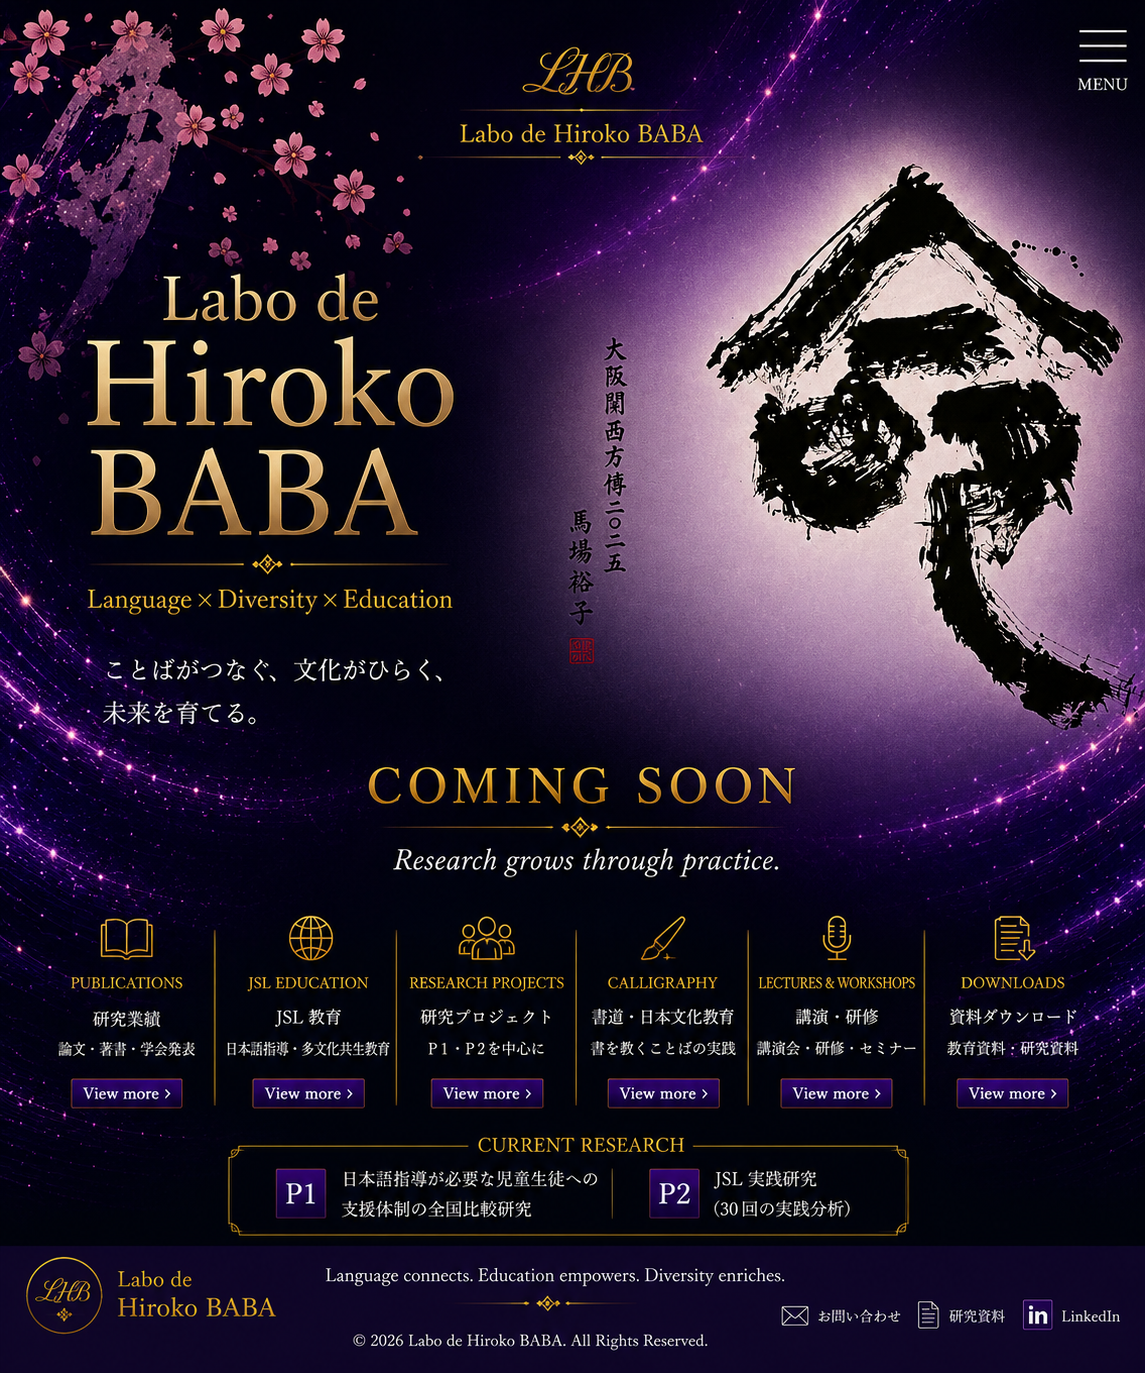
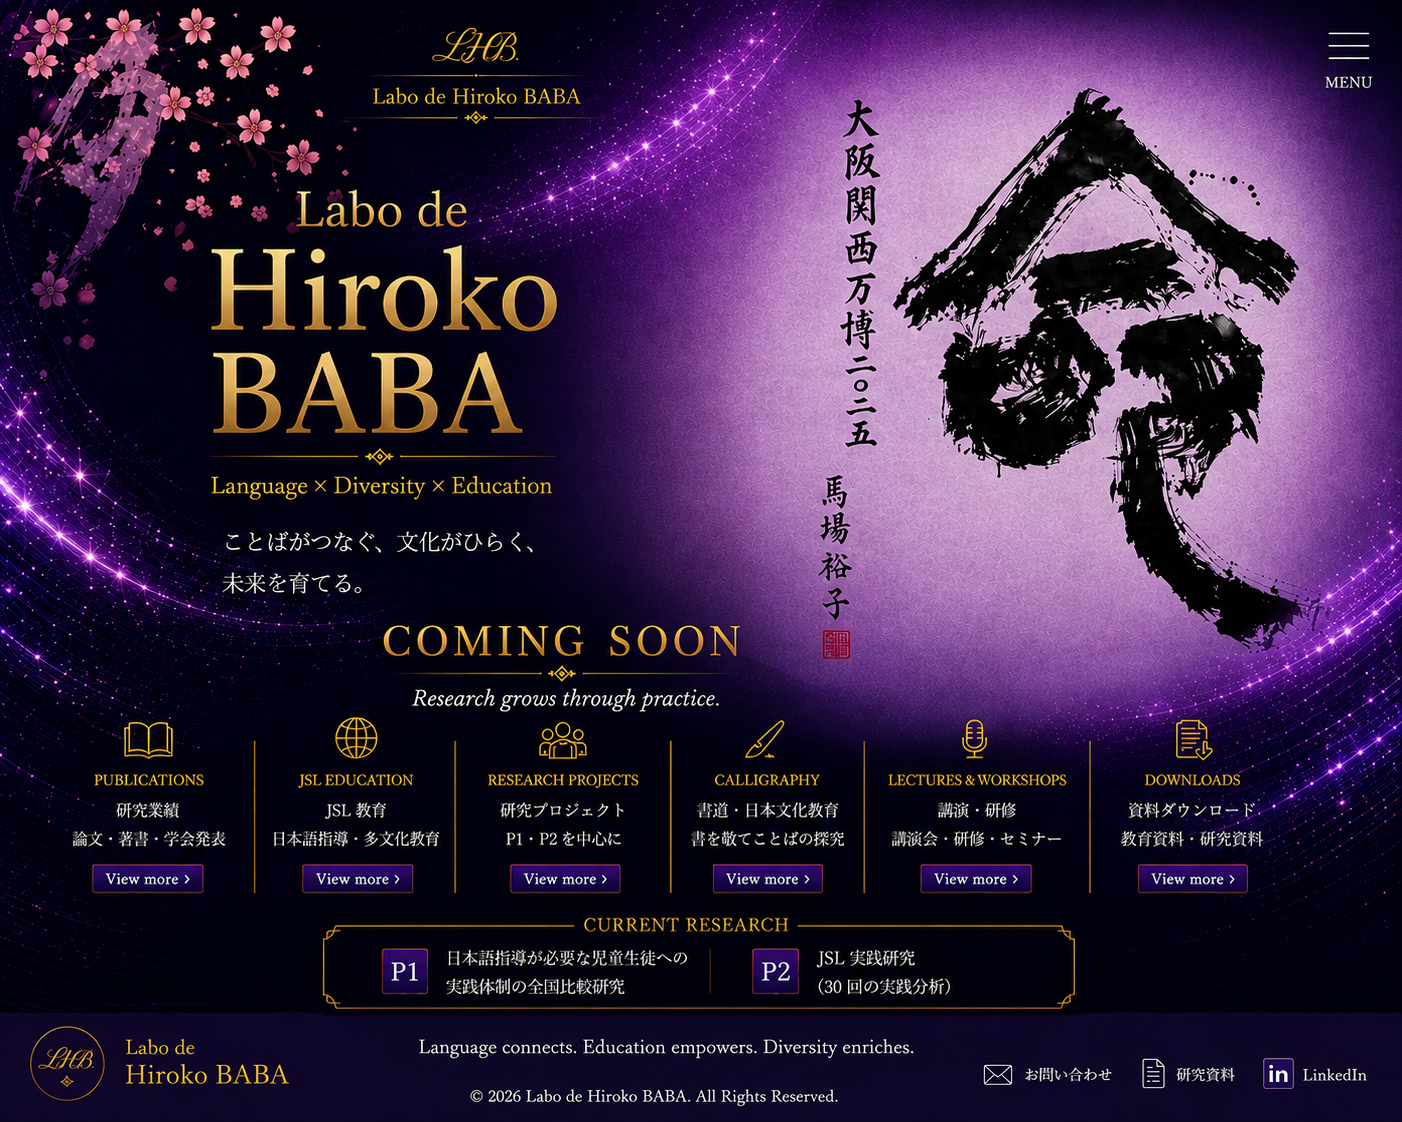
Add files via upload

diff --git a/profile.html b/profile.html
@@ -36,11 +36,11 @@ footer{margin-top:44px;padding-top:24px;border-top:1px solid rgba(255,255,255,.1
 
 <p class="kicker">PROFILE</p>
 <h1>Hiroko BABA</h1>
-<div class="degree">馬場 裕子　博士（学術） / Ph.D.</div>
+<div class="degree">馬場 裕子　博士（学術） / Ph.D.<br><strong>教育人類学者 / Educational Anthropologist</strong></div>
 
 <section class="card">
 <h2>Profile</h2>
-<p>書道教育、小学校教育、海外日本人学校での実践を経て、「子どもの日本語教育」を専門とする研究者。書道教諭、神戸市小学校教諭、文部科学省派遣によるコスタリカ・サンホセ日本人学校教諭を経験し、帰国後は日本語指導が必要な子どもの教育を研究テーマとして、教育実践と研究を続けています。</p>
+<p>教育人類学の視点から、多文化共生、日本語教育、学校教育を研究する教育人類学者。書道教育、小学校教育、海外日本人学校での実践を経て、「子どもの日本語教育」を専門とする研究者。書道教諭、神戸市小学校教諭、文部科学省派遣によるコスタリカ・サンホセ日本人学校教諭を経験し、帰国後は日本語指導が必要な子どもの教育を研究テーマとして、教育実践と研究を続けています。</p>
 <p>神戸市外国語大学、滋賀大学、大阪大学、大阪公立大学で教育・研究に携わるとともに、2016年から大阪市教育委員会多文化共生教育顧問として、多文化共生教育拠点の構築にも参画しました。現在は日本語コーディネーターとして学校現場を支援しながら、研究・教育・地域連携を進めています。</p>
 </section>
 

diff --git a/index.html b/index.html
@@ -1,26 +1,7 @@
 <!doctype html>
-<html lang="ja">
-<head>
-<meta charset="utf-8">
-<meta name="viewport" content="width=device-width, initial-scale=1">
+<html lang="ja"><head><meta charset="utf-8">
+<meta name="viewport" content="width=device-width,initial-scale=1">
 <title>Labo de Hiroko BABA</title>
-<meta name="description" content="Labo de Hiroko BABA — Language × Diversity × Education">
-<style>
-html,body{margin:0;background:#090313;min-height:100%;font-family:-apple-system,BlinkMacSystemFont,"Hiragino Sans","Yu Gothic",sans-serif}
-body{display:flex;justify-content:center}
-main{width:100%;max-width:1600px;position:relative}
-img{display:block;width:100%;height:auto}
-.profile-link{position:absolute;left:50%;bottom:3.5%;transform:translateX(-50%);
-text-decoration:none;color:#fff;border:1px solid rgba(223,189,113,.72);
-background:rgba(28,8,45,.72);padding:12px 28px;border-radius:999px;
-font:500 14px Georgia,serif;letter-spacing:.08em;backdrop-filter:blur(8px)}
-.profile-link:hover{background:rgba(83,39,118,.9)}
-</style>
-</head>
-<body>
-<main>
-<img src="assets/home-final.png" alt="Labo de Hiroko BABA — Coming Soon">
-<a class="profile-link" href="profile.html">PROFILE</a>
-</main>
-</body>
-</html>
+<style>html,body{margin:0;background:#080211}main{max-width:1600px;margin:auto;position:relative}
+img{display:block;width:100%;height:auto}</style></head>
+<body><main><img src="assets/home-final.png" alt="Labo de Hiroko BABA"></main></body></html>
